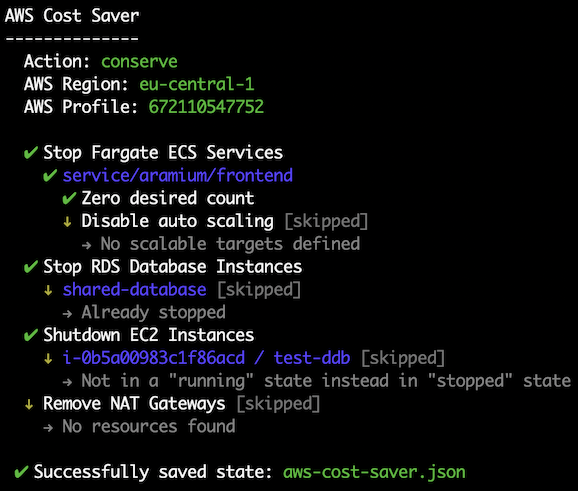
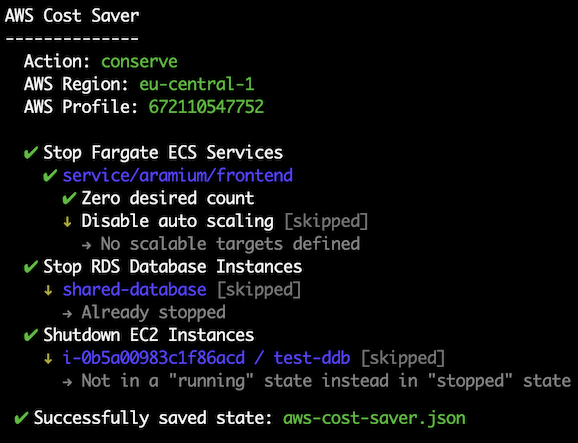
Center screenshot

diff --git a/README.md b/README.md
@@ -3,14 +3,14 @@ aws-cost-saver
 
 A tiny CLI tool to help save costs in development environments when you're sleep and don't need them!
 
-**Disclaimer**: This utility is meant for **development** environments only where stopping and removing resources is not risky.
-
 * [Usage](#usage)
 * [Tricks](#tricks)
   * [shutdown-ec2-instances](#-shutdown-ec2-instances)
   * [stop-fargate-ecs-services](#-stop-fargate-ecs-services)
-  * [remove-nat-gateways](#-remove-nat-gateways)
   * [stop-rds-databases](#-stop-rds-databases)
+
+### Disclaimer
+This utility is meant for **development** environments only where stopping and removing resources is not risky.
 
 # Usage
 ```sh-session
@@ -37,7 +37,9 @@ OPTIONS
   -p, --profile          (default: default) AWS profile to lookup from ~/.aws/config
 ```
 
-![Example Screenshot](./assets/example-screenshot.png "conserve")
+<p align="center">
+  <img width="460" src="./assets/example-screenshot.png" />
+</p>
 
 ### Restore
 
